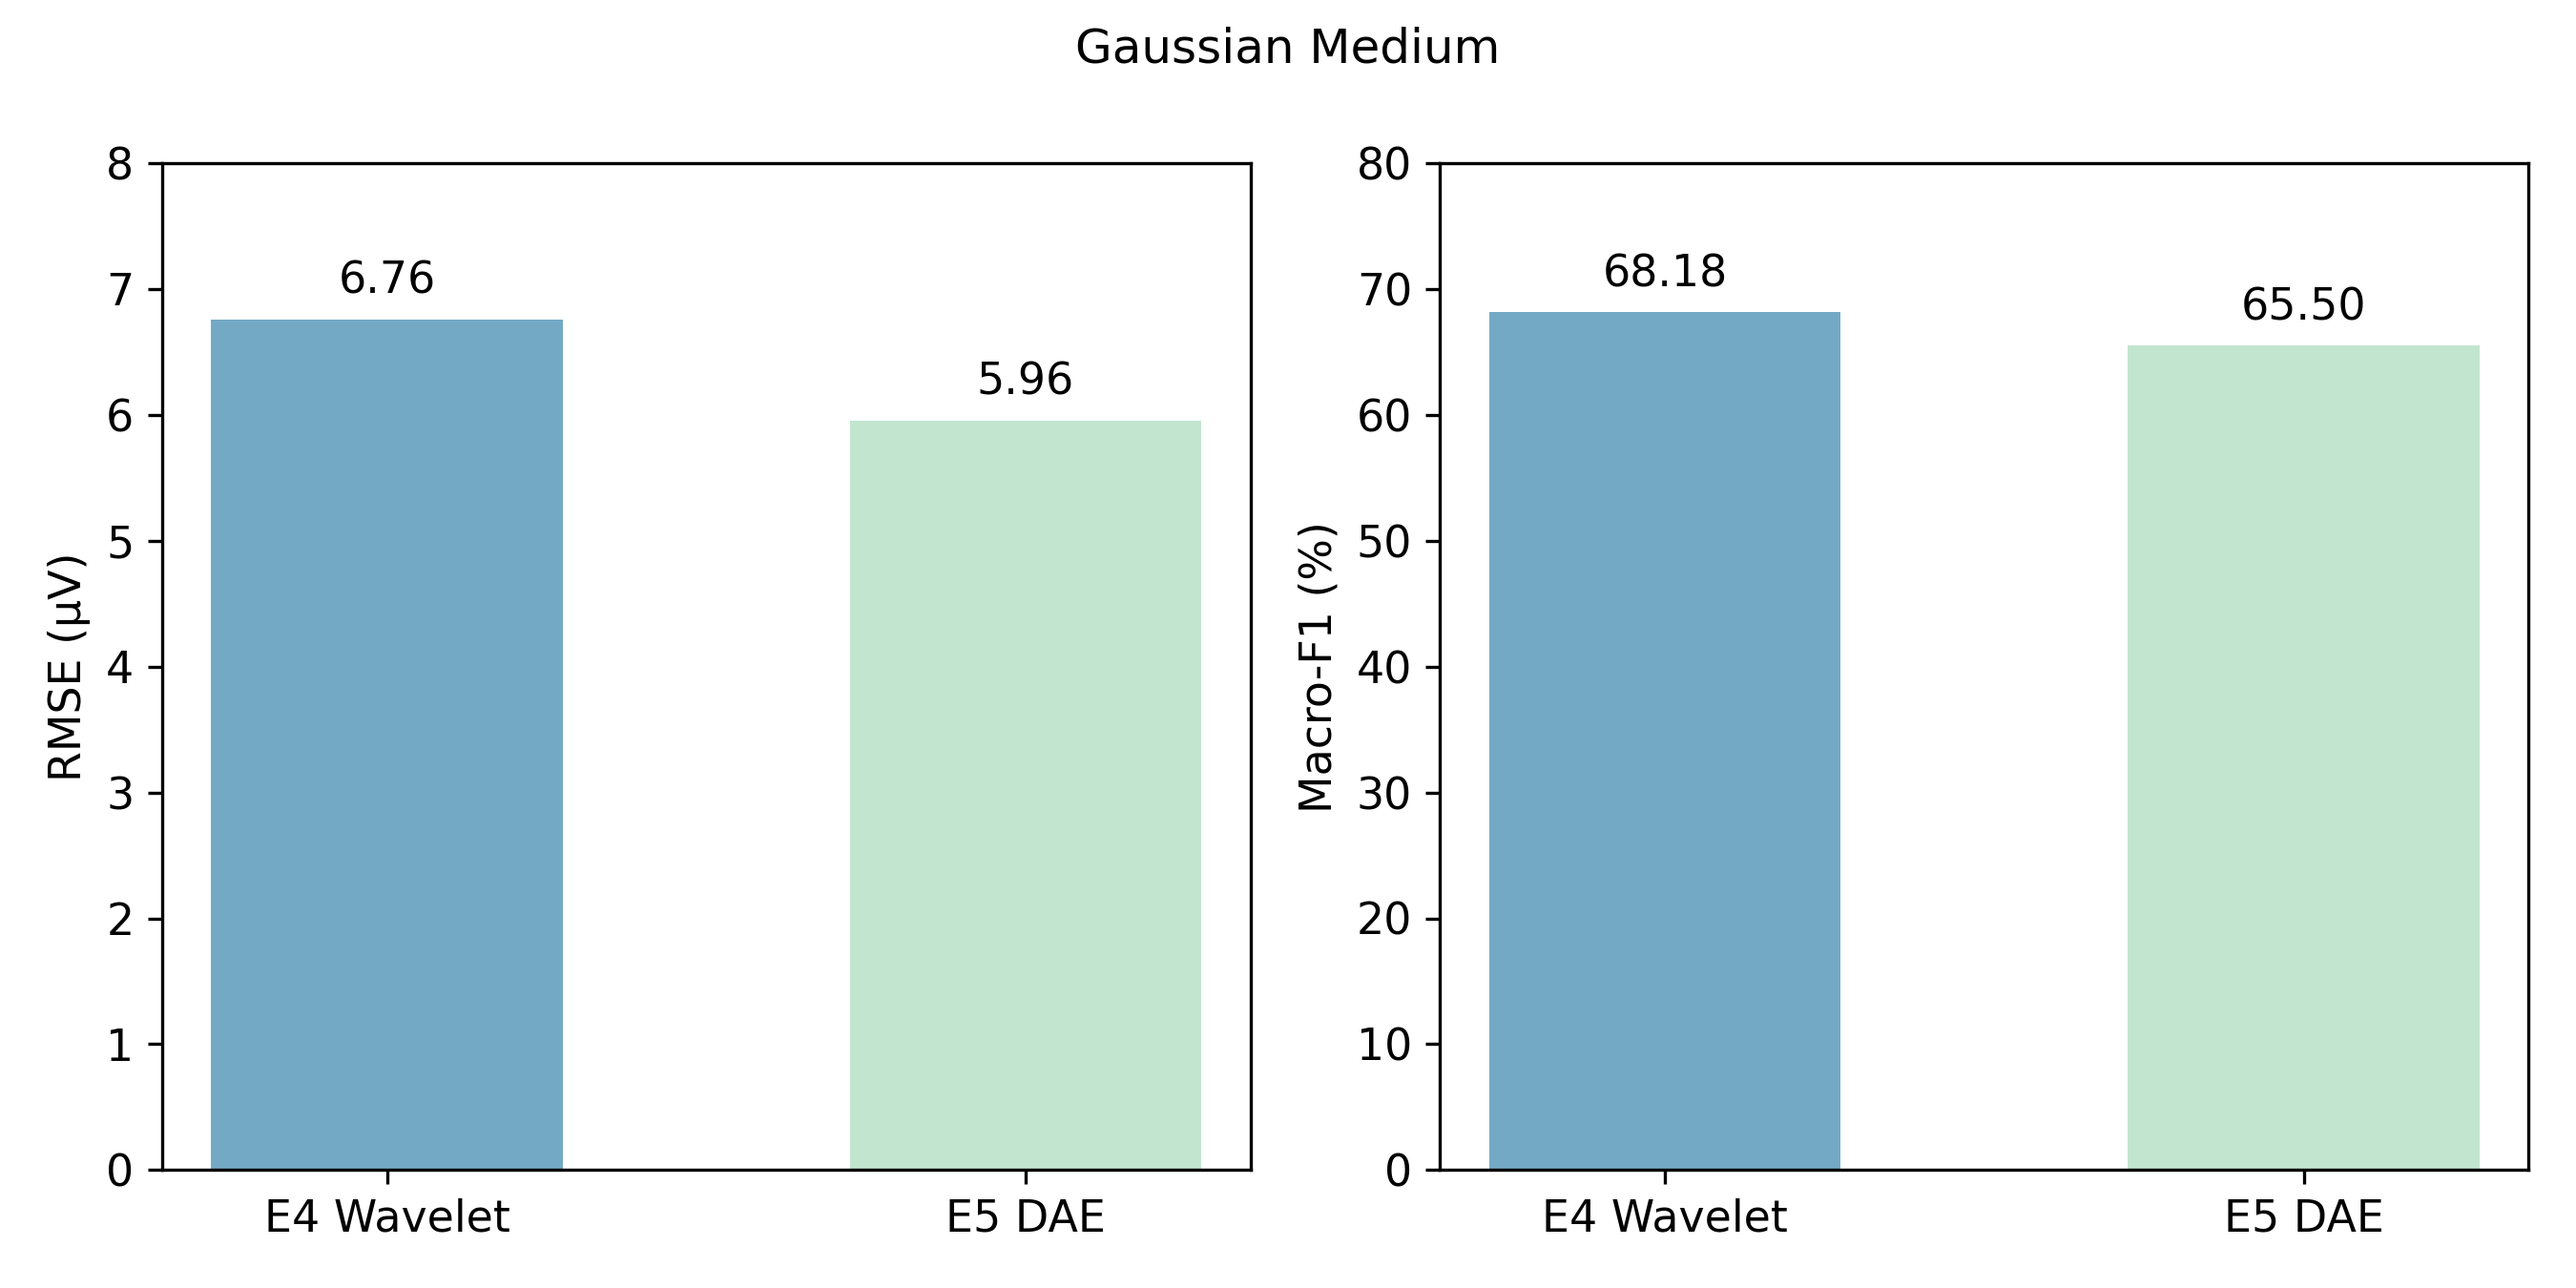
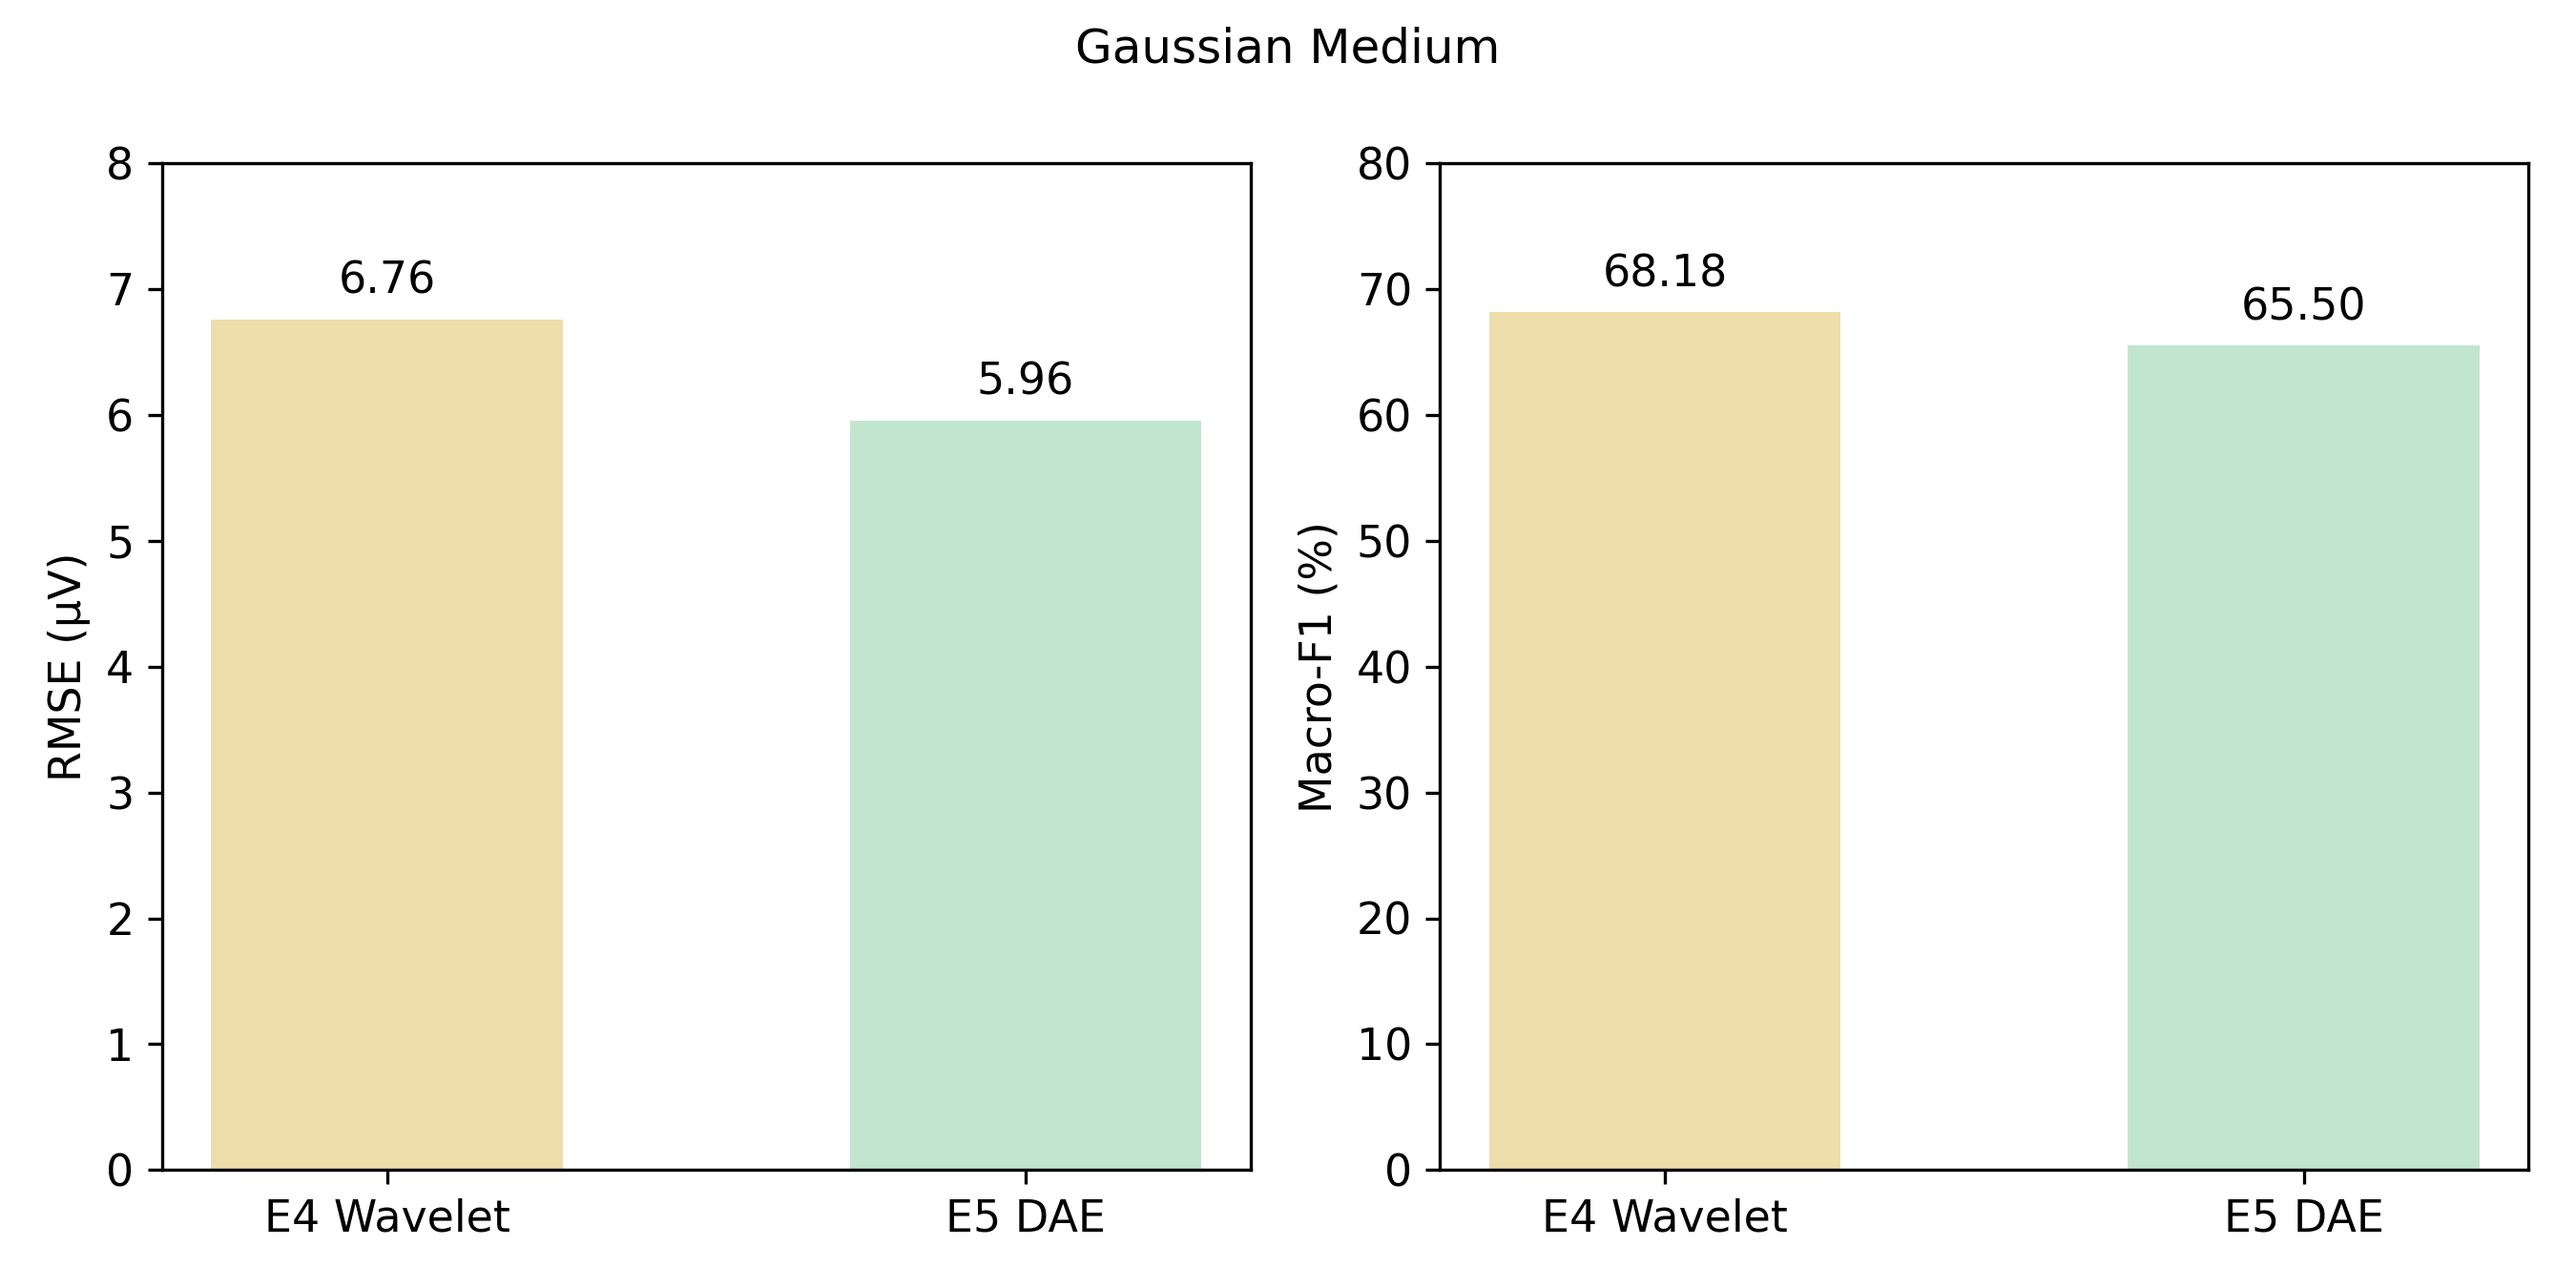
Use consistent yellow for Wavelet in reconstruction comparison

Changed region(s): [[0.56, 0.2178, 0.7156, 0.9333], [0.0622, 0.2489, 0.2178, 0.9333]]

diff --git a/scripts/plot_robustness_comparison.py b/scripts/plot_robustness_comparison.py
@@ -56,7 +56,7 @@ def main():
  fig,axes=plt.subplots(1,2,figsize=(9,4.5))
  for ax,key,label,limit in [(axes[0],'rmse_mean_uv','RMSE (µV)',8),(axes[1],'macro_f1_mean','Macro-F1 (%)',80)]:
   vals=[r[key] for r in comparison]
-  bars=ax.bar(['E4 Wavelet','E5 DAE'],vals,color=[blue,green],width=.55)
+  bars=ax.bar(['E4 Wavelet','E5 DAE'],vals,color=['#EDDDAB',green],width=.55)
   ax.set_ylabel(label);ax.set_ylim(0,limit);ax.bar_label(bars,fmt='%.2f',padding=4)
  fig.suptitle('Gaussian Medium',fontsize=12)
  fig.tight_layout()
@@ -70,7 +70,7 @@ def main():
 
 Generated from formal archived test CSVs, not rounded PPT labels. No training or inference.
 
-- Style: white background, blue #74A9C5 and green #C2E5CF bars, two-decimal value labels. Clean/noisy comparison uses horizontal grouped bars; reconstruction/classification comparison uses two basic bar charts.
+- Style: white background and two-decimal value labels. Clean/noisy colors: blue #74A9C5 and green #C2E5CF. E4/E5 colors: yellow #EDDDAB and green #C2E5CF. Clean/noisy comparison uses horizontal grouped bars; reconstruction/classification comparison uses two basic bar charts.
 - Clean/noisy comparison: clean Macro-F1 and equally weighted nine-noise Macro-F1. Average nine conditions within each fold, then average five folds. CSV SD is sample SD over five fold values. E3 uses validation-selected per-fold filters.
 - Reconstruction/classification comparison: Gaussian_Medium only. Average per-fold reported RMSE and Macro-F1 for E4 and E5. Both methods use corresponding frozen E1 classifiers. The reported RMSE is averaged from archived fold metrics, not recomputed from pooled waveforms.
 - `clean_noisy_per_fold.csv` supports later paired descriptive analysis. No statistical significance is implied and folds are not independent repetitions.
@@ -89,7 +89,7 @@ Generated from formal archived test CSVs, not rounded PPT labels. No training or
 | `reconstruction_classification_gaussian_medium.csv` | Values plotted in the E4/E5 comparison |
 | `provenance.json` | Formal input hashes, source commit and full-precision differences |
 
-Each chart also has SVG and PDF vector versions. Labels show two decimals; source CSVs retain full precision. In the first figure blue means Clean and green means noisy mean; in the second blue means E4 and green means E5. RMSE is lower-is-better, Macro-F1 higher-is-better. Both charts show descriptive means without uncertainty bars; sample SDs for the overall comparison are retained in the summary CSV. Gaussian Medium is one illustrative condition, not a conclusion about every condition.
+Each chart also has SVG and PDF vector versions. Labels show two decimals; source CSVs retain full precision. In the first figure blue means Clean and green means noisy mean; in the second yellow means E4 and green means E5. RMSE is lower-is-better, Macro-F1 higher-is-better. Both charts show descriptive means without uncertainty bars; sample SDs for the overall comparison are retained in the summary CSV. Gaussian Medium is one illustrative condition, not a conclusion about every condition.
 
 From repository root in the Sleep environment:
 

diff --git a/reports/figures/robustness_comparison/README.md b/reports/figures/robustness_comparison/README.md
@@ -2,7 +2,7 @@
 
 Generated from formal archived test CSVs, not rounded PPT labels. No training or inference.
 
-- Style: white background, blue #74A9C5 and green #C2E5CF bars, two-decimal value labels. Clean/noisy comparison uses horizontal grouped bars; reconstruction/classification comparison uses two basic bar charts.
+- Style: white background and two-decimal value labels. Clean/noisy colors: blue #74A9C5 and green #C2E5CF. E4/E5 colors: yellow #EDDDAB and green #C2E5CF. Clean/noisy comparison uses horizontal grouped bars; reconstruction/classification comparison uses two basic bar charts.
 - Clean/noisy comparison: clean Macro-F1 and equally weighted nine-noise Macro-F1. Average nine conditions within each fold, then average five folds. CSV SD is sample SD over five fold values. E3 uses validation-selected per-fold filters.
 - Reconstruction/classification comparison: Gaussian_Medium only. Average per-fold reported RMSE and Macro-F1 for E4 and E5. Both methods use corresponding frozen E1 classifiers. The reported RMSE is averaged from archived fold metrics, not recomputed from pooled waveforms.
 - `clean_noisy_per_fold.csv` supports later paired descriptive analysis. No statistical significance is implied and folds are not independent repetitions.
@@ -21,7 +21,7 @@ Generated from formal archived test CSVs, not rounded PPT labels. No training or
 | `reconstruction_classification_gaussian_medium.csv` | Values plotted in the E4/E5 comparison |
 | `provenance.json` | Formal input hashes, source commit and full-precision differences |
 
-Each chart also has SVG and PDF vector versions. Labels show two decimals; source CSVs retain full precision. In the first figure blue means Clean and green means noisy mean; in the second blue means E4 and green means E5. RMSE is lower-is-better, Macro-F1 higher-is-better. Both charts show descriptive means without uncertainty bars; sample SDs for the overall comparison are retained in the summary CSV. Gaussian Medium is one illustrative condition, not a conclusion about every condition.
+Each chart also has SVG and PDF vector versions. Labels show two decimals; source CSVs retain full precision. In the first figure blue means Clean and green means noisy mean; in the second yellow means E4 and green means E5. RMSE is lower-is-better, Macro-F1 higher-is-better. Both charts show descriptive means without uncertainty bars; sample SDs for the overall comparison are retained in the summary CSV. Gaussian Medium is one illustrative condition, not a conclusion about every condition.
 
 From repository root in the Sleep environment:
 
